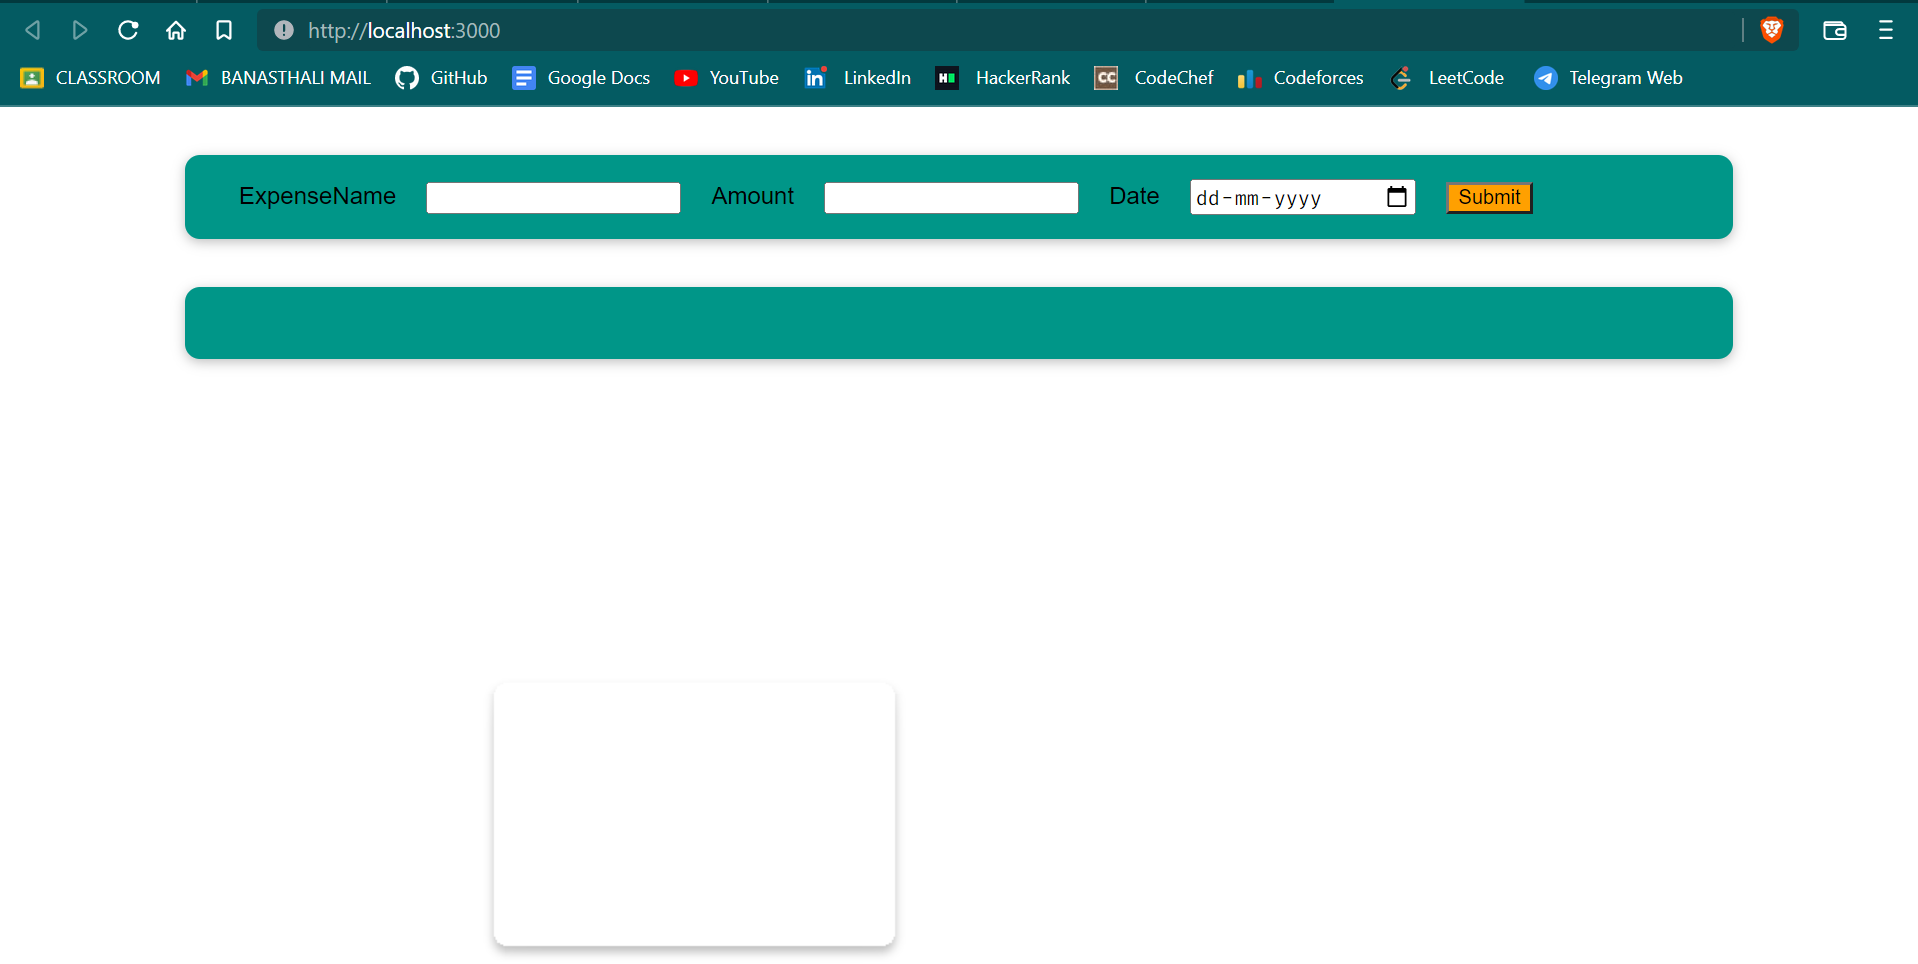
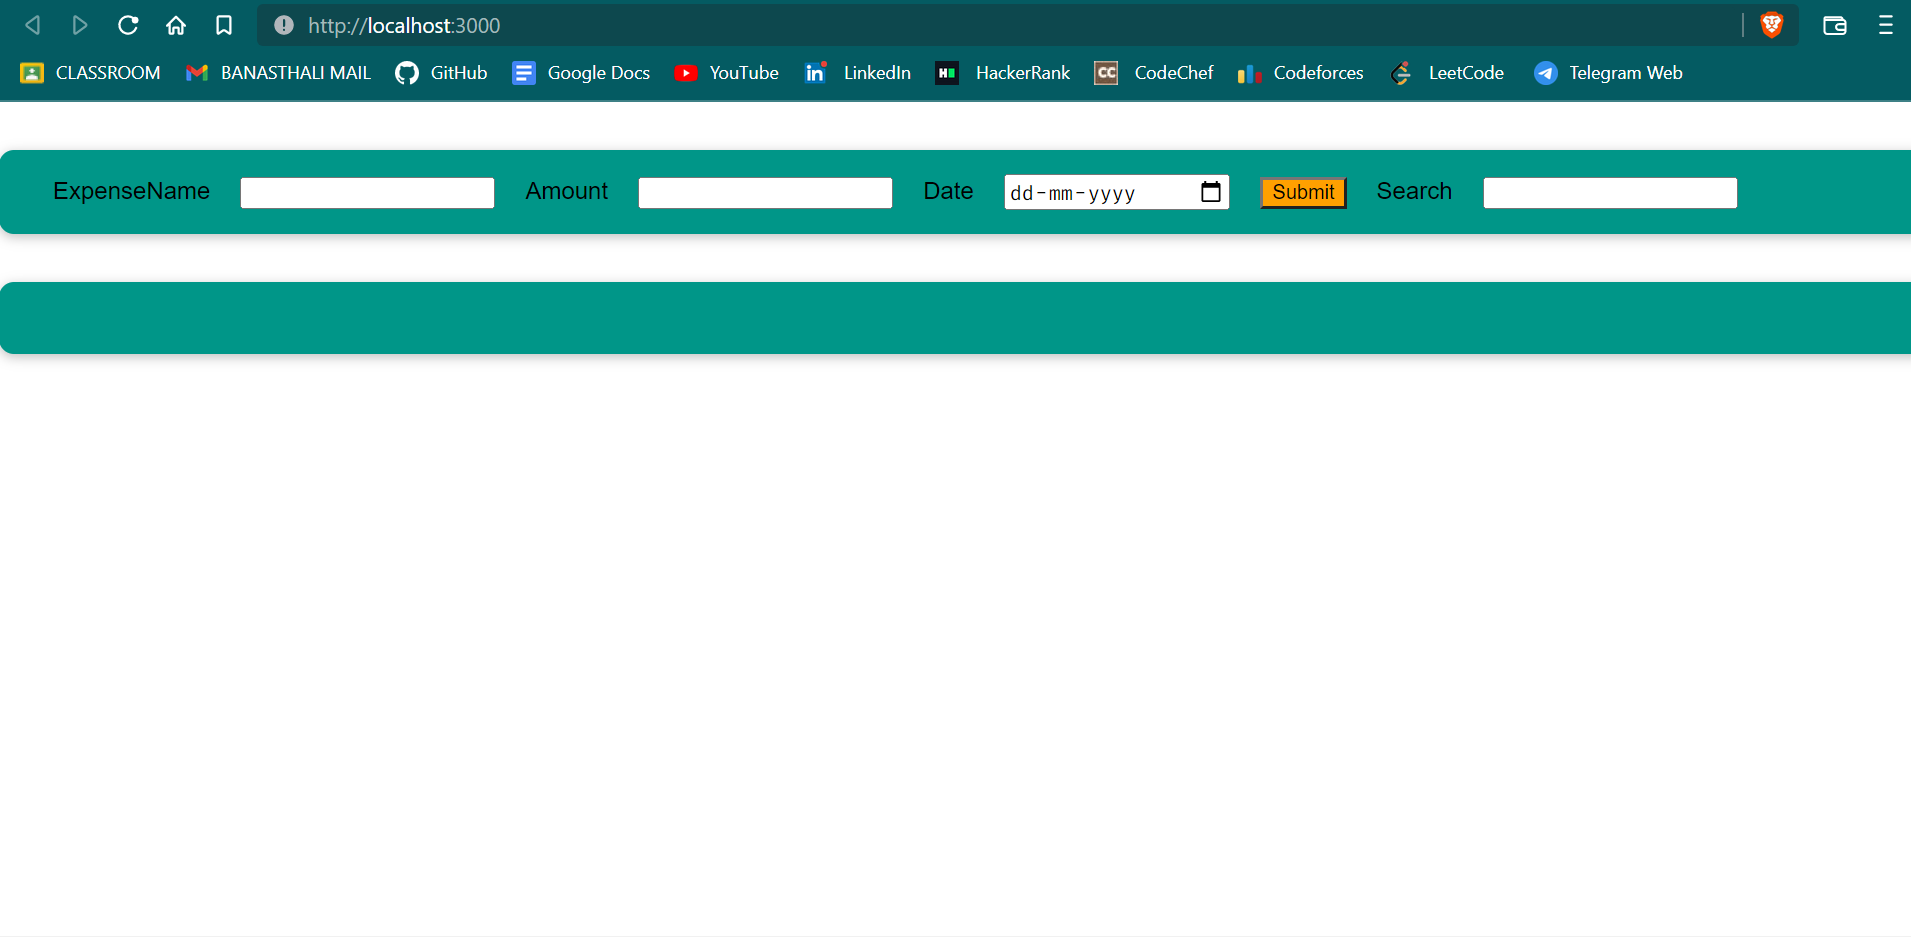
1-second-app.png, 2-amount-and-date-undefined-error.png, 3-undefined-date-error.png, 4-negative-amount.png, 5-negative-amount-error.png, 6-expense-input.png, 7-expense-list.png, 8-second-expense-input.png

diff --git a/src/Components/ExpenseManager/AddExpenses.js b/src/Components/ExpenseManager/AddExpenses.js
@@ -1,4 +1,3 @@
-import { getQueriesForElement } from "@testing-library/react";
 import { useState } from "react";
 import Card from "../UI/Card";
 import Button from "./Button";
@@ -7,6 +6,7 @@ const AddExpenses = (props) => {
   const [enteredExpenseName, setEnteredExpenseName] = useState("");
   const [enteredAmount, setEnteredAmount] = useState("");
   const [enteredDate, setEnteredDate] = useState("");
+  const [year, setEnteredYear] = useState("");
 
   const addDataHandler = (event) => {
     event.preventDefault();
@@ -19,11 +19,12 @@ const AddExpenses = (props) => {
       alert("Entered data is not valid !!");
     } else if (!Number.isNaN(+enteredAmount) && +enteredAmount < 0) {
       alert("Please enter a  valid amount..!");
-    } else {
+    } else if (enteredDate.substring(0, 4) === year) {
       props.onAddExpenses(enteredExpenseName, enteredAmount, enteredDate);
       setEnteredExpenseName("");
       setEnteredAmount("");
       setEnteredDate("");
+      setEnteredYear("");
     }
   };
 
@@ -39,8 +40,8 @@ const AddExpenses = (props) => {
     setEnteredDate(event.target.value);
   };
 
-  const dropdownChangeHandler = (event) => {
-    props.onChangeFilter(event.target.value);
+  const yearChangeHandler = (event) => {
+    setEnteredYear(event.target.value);
   };
 
   return (
@@ -80,14 +81,15 @@ const AddExpenses = (props) => {
           Submit
         </Button>
 
-        <label className="lab">Search</label>
-        <select value={props.selected} onChange={dropdownChangeHandler}>
-          <option value="2022">2022</option>
-          <option value="2021">2021</option>
-          <option value="2020">2020</option>
-          <option value="2019">2019</option>
-          <option value="2018">2018</option>
-        </select>
+        <label htmlFor="year" className="lab">
+          Search
+        </label>
+        <input
+          id="year"
+          type="text"
+          value={year}
+          onChange={yearChangeHandler}
+        ></input>
       </form>
     </Card>
   );
